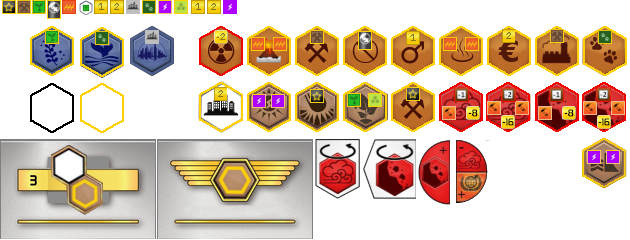
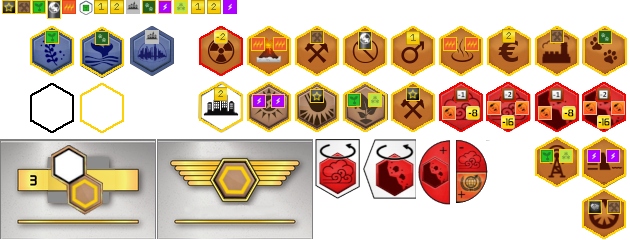
Add DeimosDownAres card

Changed region(s): [[0.8444, 0.5542, 0.9952, 1.0]]

diff --git a/tests/cards/ares/DeimosDownAres.spec.ts b/tests/cards/ares/DeimosDownAres.spec.ts
@@ -1,0 +1,66 @@
+import {expect} from 'chai';
+import {Player} from '../../../src/Player';
+import {Game} from '../../../src/Game';
+import {TileType} from '../../../src/TileType';
+import {SpaceBonus} from '../../../src/SpaceBonus';
+import {ARES_OPTIONS_NO_HAZARDS} from '../../ares/AresTestHelper';
+import {TestPlayers} from '../../TestPlayers';
+import {DeimosDownAres} from '../../../src/cards/ares/DeimosDownAres';
+import {SelectSpace} from '../../../src/inputs/SelectSpace';
+import {OrOptions} from '../../../src/inputs/OrOptions';
+
+describe('DeimosDownAres', function() {
+  let card: DeimosDownAres; let player: Player; let player2: Player;
+
+  beforeEach(() => {
+    card = new DeimosDownAres();
+    player = TestPlayers.BLUE.newPlayer();
+    player2 = TestPlayers.RED.newPlayer();
+    Game.newInstance('foobar', [player, player2], player, ARES_OPTIONS_NO_HAZARDS);
+  });
+
+  it('Should play without plants', function() {
+    const action = card.play(player);
+    expect(action).instanceOf(SelectSpace);
+    expect(player.game.getTemperature()).eq(-24);
+    expect(player.steel).eq(4);
+    const input = player.game.deferredActions.peek()!.execute();
+    expect(input).is.undefined;
+  });
+
+  it('Can remove plants', function() {
+    player2.plants = 5;
+
+    const action = card.play(player);
+    expect(action).instanceOf(SelectSpace);
+
+    const space = action.availableSpaces[0];
+    action.cb(space);
+    expect(space.tile && space.tile.tileType).eq(TileType.DEIMOS_DOWN);
+    expect(space.adjacency).to.deep.eq({bonus: [SpaceBonus.ASTEROID, SpaceBonus.STEEL]});
+
+    expect(player.game.getTemperature()).eq(-24);
+    // In case tile placement gives some additional steel
+    expect(player.steel).gte(4);
+
+    expect(player.game.deferredActions).has.lengthOf(1);
+
+    // Choose Remove 5 plants option
+    const orOptions = player.game.deferredActions.peek()!.execute() as OrOptions;
+    orOptions.options[0].cb([player2]);
+
+    expect(player2.plants).eq(0);
+  });
+
+  it('Works fine in solo mode', function() {
+    Game.newInstance('foobar', [player], player);
+
+    player.plants = 15;
+    const action = card.play(player);
+    expect(action).instanceOf(SelectSpace);
+
+    expect(player.game.getTemperature()).eq(-24);
+    expect(player.steel).eq(4);
+    expect(player.plants).eq(15); // not removed
+  });
+});

diff --git a/src/cards/promo/DeimosDownPromo.ts b/src/cards/promo/DeimosDownPromo.ts
@@ -9,25 +9,29 @@ import {TileType} from '../../TileType';
 import {ISpace} from '../../boards/ISpace';
 import {RemoveAnyPlants} from '../../deferredActions/RemoveAnyPlants';
 import {CardRenderer} from '../render/CardRenderer';
+import {IAdjacencyBonus} from '../../ares/IAdjacencyBonus';
 
 export class DeimosDownPromo extends Card implements IProjectCard {
-  constructor() {
+  constructor(
+    name: CardName = CardName.DEIMOS_DOWN_PROMO,
+    adjacencyBonus: IAdjacencyBonus | undefined = undefined,
+    metadata = {
+      cardNumber: 'X31',
+      renderData: CardRenderer.builder((b) => {
+        b.temperature(3).br;
+        b.tile(TileType.DEIMOS_DOWN, true).asterix().br;
+        b.steel(4).digit.nbsp().minus().plants(-6).any;
+      }),
+      description: 'Raise temperature 3 steps and gain 4 steel. Place this tile ADJACENT TO no other city tile. Remove up to 6 Plants from any player.',
+    }) {
     super({
       cardType: CardType.EVENT,
-      name: CardName.DEIMOS_DOWN_PROMO,
+      name,
       tags: [Tags.SPACE],
       cost: 31,
       tr: {temperature: 3},
-
-      metadata: {
-        cardNumber: 'X31',
-        description: 'Raise temperature 3 steps and gain 4 steel. Place this tile ADJACENT TO no other city tile. Remove up to 6 Plants from any player.',
-        renderData: CardRenderer.builder((b) => {
-          b.temperature(3).br;
-          b.tile(TileType.DEIMOS_DOWN, true).asterix().br;
-          b.steel(4).digit.nbsp().minus().plants(-6).any;
-        }),
-      },
+      adjacencyBonus,
+      metadata,
     });
   }
 
@@ -49,6 +53,7 @@ export class DeimosDownPromo extends Card implements IProjectCard {
 
     return new SelectSpace('Select space for tile', availableSpaces, (foundSpace: ISpace) => {
       player.game.addTile(player, foundSpace.spaceType, foundSpace, {tileType: TileType.DEIMOS_DOWN});
+      foundSpace.adjacency = this.adjacencyBonus;
       return undefined;
     });
   }

diff --git a/src/cards/ares/AresCardManifest.ts b/src/cards/ares/AresCardManifest.ts
@@ -7,6 +7,7 @@ import {BiofertilizerFacility} from './BiofertilizerFacility';
 import {ButterflyEffect} from './ButterflyEffect';
 import {CapitalAres} from './CapitalAres';
 import {CommercialDistrictAres} from './CommercialDistrictAres';
+import {DeimosDownAres} from './DeimosDownAres';
 import {DesperateMeasures} from './DesperateMeasures';
 import {EcologicalSurvey} from './EcologicalSurvey';
 import {EcologicalZoneAres} from './EcologicalZoneAres';
@@ -36,6 +37,7 @@ export const ARES_CARD_MANIFEST = new CardManifest({
     {cardName: CardName.BUTTERFLY_EFFECT, Factory: ButterflyEffect},
     {cardName: CardName.CAPITAL_ARES, Factory: CapitalAres},
     {cardName: CardName.COMMERCIAL_DISTRICT_ARES, Factory: CommercialDistrictAres},
+    {cardName: CardName.DEIMOS_DOWN_ARES, Factory: DeimosDownAres},
     {cardName: CardName.DESPERATE_MEASURES, Factory: DesperateMeasures},
     {cardName: CardName.ECOLOGICAL_SURVEY, Factory: EcologicalSurvey},
     {cardName: CardName.ECOLOGICAL_ZONE_ARES, Factory: EcologicalZoneAres},
@@ -59,7 +61,10 @@ export const ARES_CARD_MANIFEST = new CardManifest({
   cardsToRemove: [
     CardName.CAPITAL,
     CardName.COMMERCIAL_DISTRICT,
+    CardName.DEIMOS_DOWN,
+    CardName.DEIMOS_DOWN_PROMO,
     CardName.ECOLOGICAL_ZONE,
+    CardName.GREAT_DAM,
     CardName.GREAT_DAM_PROMO,
     CardName.INDUSTRIAL_CENTER,
     CardName.LAVA_FLOWS,

diff --git a/src/Game.ts b/src/Game.ts
@@ -1582,6 +1582,17 @@ export class Game implements ISerializable<SerializedGame> {
       player.addResource(Resources.TITANIUM, count, {log: true});
     } else if (spaceBonus === SpaceBonus.POWER) {
       player.addResource(Resources.ENERGY, count, {log: true});
+    } else if (spaceBonus === SpaceBonus.ASTEROID) {
+      const asteroidCards = player.getResourceCards(ResourceType.ASTEROID);
+
+      if (asteroidCards.length === 1) {
+        player.addResourceTo(asteroidCards[0], count);
+        LogHelper.logAddResource(player, asteroidCards[0], count);
+      } else if (asteroidCards.length > 1) {
+        this.defer(new AddResourcesToCard(player, ResourceType.ANIMAL, {count: count}));
+      } else {
+        this.log("${0} has no asteroid cards", b => b.player(player));
+      }
     } else if (spaceBonus === SpaceBonus.HEAT) {
       player.addResource(Resources.HEAT, count, {log: true});
     } else if (spaceBonus === SpaceBonus.ANIMAL) {

diff --git a/src/cards/ares/DeimosDownAres.ts b/src/cards/ares/DeimosDownAres.ts
@@ -1,0 +1,23 @@
+import {CardName} from '../../CardName';
+import {SpaceBonus} from '../../SpaceBonus';
+import {TileType} from '../../TileType';
+import {CardRenderer} from '../render/CardRenderer';
+import {DeimosDownPromo} from '../promo/DeimosDownPromo';
+
+export class DeimosDownAres extends DeimosDownPromo {
+  constructor() {
+    super(
+      CardName.DEIMOS_DOWN_ARES,
+      {bonus: [SpaceBonus.ASTEROID, SpaceBonus.STEEL]},
+      {
+        cardNumber: 'A26',
+        renderData: CardRenderer.builder((b) => {
+            b.temperature(3).br;
+            b.tile(TileType.DEIMOS_DOWN, false, true).asterix().br;
+            b.steel(4).digit.nbsp().minus().plants(-6).any;
+        }),
+        description: 'Raise temperature 3 steps and gain 4 steel. Place this tile ADJACENT TO no other city tile. The tile grants an ADJACENCY BONUS of 1 asteroid and 1 steel.',
+      },
+    );
+  }
+}

diff --git a/src/SpaceBonus.ts b/src/SpaceBonus.ts
@@ -20,6 +20,7 @@ export enum SpaceBonus {
     RESTRICTED, // 10, Tiles cannot be placed on these spaces
     COVE, // 11, Spaces that allow both ocean and land tiles to be placed
     TEMPERATURE, // 12, Gives a bonus temperature raise
+    ASTEROID, // 13, Used by Deimos Down Ares
 }
 
 const TO_STRING_MAP: Map<SpaceBonus, string> = new Map([
@@ -35,6 +36,8 @@ const TO_STRING_MAP: Map<SpaceBonus, string> = new Map([
   [SpaceBonus.POWER, 'Power'],
   [SpaceBonus.RESTRICTED, 'Restricted'],
   [SpaceBonus.COVE, 'Cove'],
+  [SpaceBonus.TEMPERATURE, 'Temperature'],
+  [SpaceBonus.ASTEROID, 'Asteroid'],
 ]);
 
 export namespace SpaceBonus {

diff --git a/src/styles/ares.less b/src/styles/ares.less
@@ -24,6 +24,11 @@
   .card-tile-ares;
 }
 
+.card-tile-deimos-down-ares {
+	.board-space-tile--deimos-down-ares;
+  .card-tile-ares;
+}
+
 .card-tile-industrial-center-ares {
 	.board-space-tile--industrial-center-ares;
   .card-tile-ares;
@@ -131,6 +136,10 @@
 
 .board-space-tile--great-dam-ares {
 	background: url(assets/board/board_icons_ares.png) -581px -139px no-repeat;
+}
+
+.board-space-tile--deimos-down-ares {
+	background: url(./assets/board/board_icons_ares.png) -581px -189px no-repeat;
 }
 
 .board-space-tile--industrial-center-ares {

diff --git a/src/components/BoardSpace.ts b/src/components/BoardSpace.ts
@@ -38,6 +38,7 @@ const tileTypeToCssClass = new Map<TileType, string>([
 
 const tileTypeToCssClassAresOverride = new Map<TileType, string>([
   [TileType.COMMERCIAL_DISTRICT, 'commercial-district-ares'],
+  [TileType.DEIMOS_DOWN, 'deimos-down-ares'],
   [TileType.ECOLOGICAL_ZONE, 'ecological-zone-ares'],
   [TileType.GREAT_DAM, 'great-dam-ares'],
   [TileType.INDUSTRIAL_CENTER, 'industrial-center-ares'],

diff --git a/src/CardName.ts b/src/CardName.ts
@@ -550,6 +550,7 @@ export enum CardName {
     BUTTERFLY_EFFECT = 'Butterfly Effect',
     CAPITAL_ARES = 'Capital:ares',
     COMMERCIAL_DISTRICT_ARES = 'Commercial District:ares',
+    DEIMOS_DOWN_ARES = 'Deimos Down:ares',
     DESPERATE_MEASURES = 'Desperate Measures',
     ECOLOGICAL_SURVEY = 'Ecological Survey',
     ECOLOGICAL_ZONE_ARES = 'Ecological Zone:ares',

diff --git a/src/components/Bonus.ts b/src/components/Bonus.ts
@@ -36,6 +36,8 @@ export const Bonus = Vue.component('bonus', {
         ret += 'bonustemperature';
       } else if (bonus === SpaceBonus.POWER) {
         ret += 'energy';
+      } else if (bonus === SpaceBonus.ASTEROID) {
+        ret += 'asteroid';
       }
 
       ret += ' board-space-bonus-pos--' + idx.toString();

diff --git a/src/LogHelper.ts b/src/LogHelper.ts
@@ -54,7 +54,7 @@ export class LogHelper {
   }
 
   static logTRChange(player: Player, steps: number) {
-    const verb = steps > 0 ? 'gained' : 'lost';
+    const verb = steps >= 0 ? 'gained' : 'lost';
     player.game.log('${0} ${1} ${2} TR', (b) => b.player(player).string(verb).number(steps));
   }
 

diff --git a/src/components/card/CardRenderTileComponent.ts b/src/components/card/CardRenderTileComponent.ts
@@ -26,6 +26,7 @@ const TILE_CLASSES: Map<TileType, Classes> = new Map([
     symbol: 'card-tile-symbol-commercial-district',
   }],
   [TileType.DEIMOS_DOWN, {
+    aresTile: 'card-tile-deimos-down-ares',
     symbol: 'card-tile-symbol-deimos-down',
   }],
   [TileType.GREAT_DAM, {
